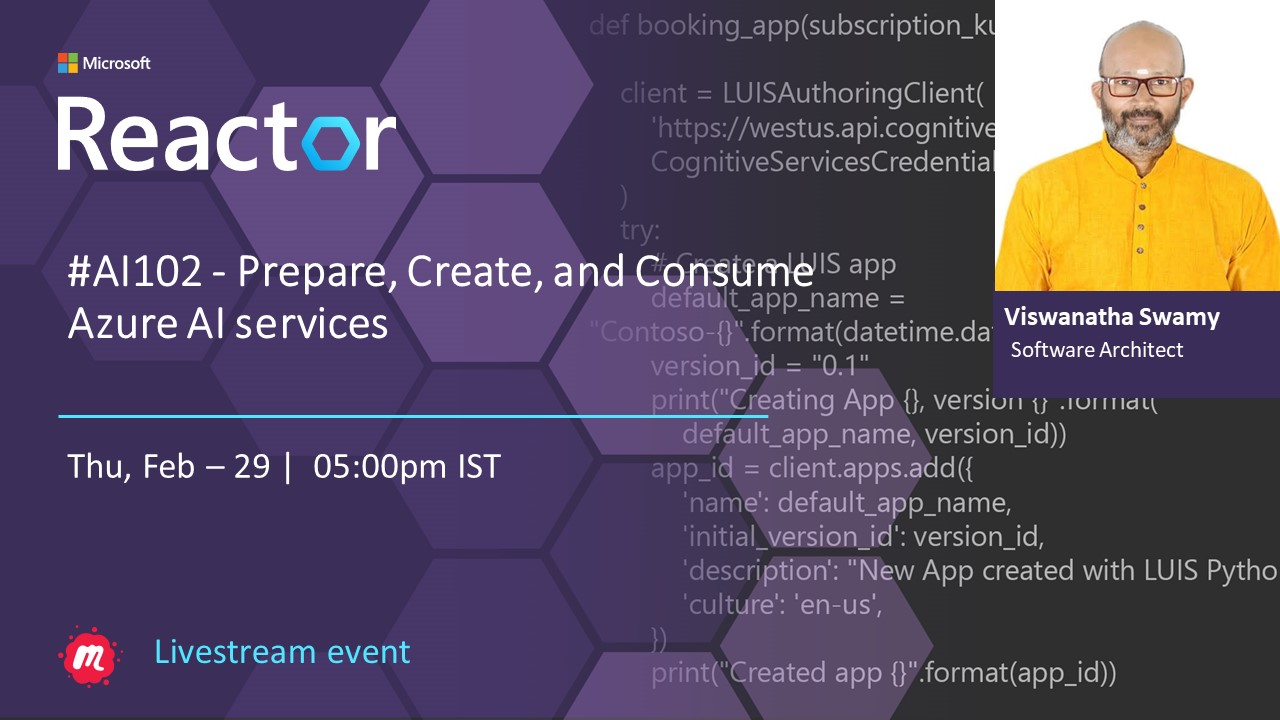
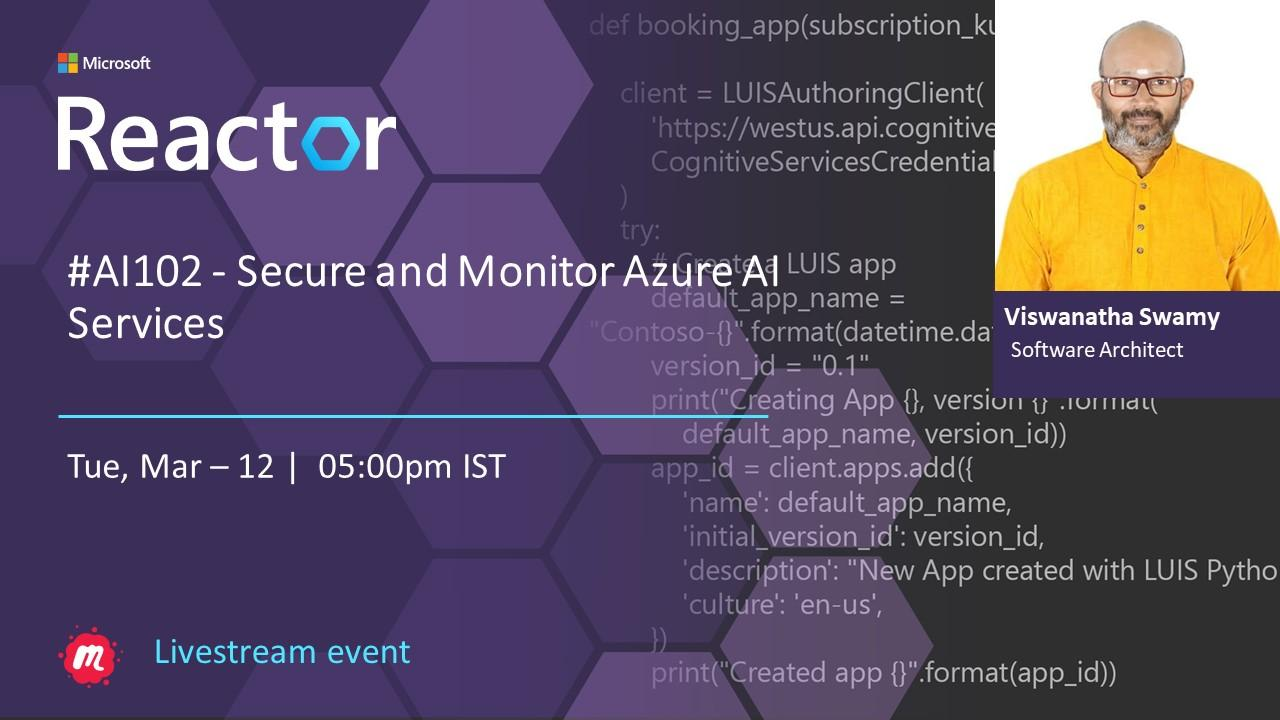
Swamy/11mar work (#29)
* Changes

* Images

* Changes

diff --git a/0312_MSFT_Reactor_AI102_S2/README.md b/0312_MSFT_Reactor_AI102_S2/README.md
@@ -1,15 +1,15 @@
-# AI 102 - Prepare, Create, and Consume Azure AI services
+# AI 102 - Secure and Monitor Azure AI Services
 
-## Date Time: 29-Feb-2024 at 05:00 PM IST
+## Date Time: 12-Mar-2024 at 05:00 PM IST
 
-## Event URL: [https://www.meetup.com/microsoft-reactor-bengaluru/events/299051375](https://www.meetup.com/microsoft-reactor-bengaluru/events/299051375)
+## Event URL: [https://www.meetup.com/microsoft-reactor-bengaluru/events/299209829](https://www.meetup.com/microsoft-reactor-bengaluru/events/299209829)
 
 ## YouTube URL: [https://www.youtube.com/watch?v=ToBeDone](https://www.youtube.com/watch?v=ToBeDone)
 
 ## MS Learn Module(s)
 
-> 1. <https://learn.microsoft.com/en-us/training/modules/prepare-to-develop-ai-solutions-azure/>
-> 1. <https://learn.microsoft.com/en-us/training/modules/create-manage-ai-services/>
+> 1. <https://aka.ms/MonitorAzureAIservices>
+> 1. <https://aka.ms/SecureAzureAIservices>
 
 ![Viswanatha Swamy P K |150x150](./Documentation/Images/ViswanathaSwamyPK.PNG)
 
@@ -42,18 +42,16 @@
 >    - Pre-requisites
 >    - Previous Session
 >    - Current Architecture
-> 1. Python Flask API interacting with Azure Open AI
-> 1. .NET 7 Blazor Server Admin Application interacting with Python Flask API
-> 1. Azure SQL Server, Database, and SQL Scripts
->    - SQL Scripts
->    - Azure SQL Database, and Azure Data Studio
-> 1. Creating .NET 8 Minimal API to store Countries information in Azure SQL Server
-> 1. Integrating Python Flask API, .NET 7 Blazor Server Admin Application, and .NET 8 Minimal API
-> 1. Creating React 18 Client Application to view information.
-> 1. Integrating Python Flask API, Blazor Server Admin Application, .NET 8 Minimal API, and React 18 Client Application.
+> 1. Study guide for Exam AI-102
+> 1. What is Intelligence?
+> 1. Few Terms AI, ML, Auto ML, DL, NLP, GAI
+> 1. ELIZA - The early Natural Language Processing (NLP) Chatbot
+> 1. Azure Open AI, Transformer and GPT
+> 1. Prepare to develop AI solutions on Azure
+> 1. Create and consume Azure AI services
 > 1. SUMMARY / RECAP / Q&A
 
-### Please refer to the [**Source Code**](https://github.com/orgs/ViswanathaSwamy-PK-TechSkillz-Academy/repositories?q=travels) of today's session for more details
+### Please refer to the [**Source Code**](https://github.com/vishipayyallore/aiml-2024/tree/main/ai102demos/TextAnalyticsDemos) of today's session for more details
 
 ---
 
@@ -65,82 +63,52 @@
 
 ### Pre-requisites
 
-> 1. Azure Open AI, SQL
-> 1. Python, and .NET 7/8
+> 1. Azure Open AI, AI/ML
+> 1. Python, C#, and .NET 8
 
 ### Previous Session
 
-> 1. <https://www.youtube.com/watch?v=9L_ebd9P-xM>
+> 1. <https://www.youtube.com/watch?v=03dh8I5FZpo>
 
 ### Current Architecture
 
-![Current Architecture | 100x100](./Documentation/Images/SessionFirstLook.PNG)
+> 1. NA
 
-## 2. Python Flask API interacting with Azure Open AI
-
-> 1. Discussion and Demo. This is created in previous session
-> 1. New Changes
-> 1. <https://learn.microsoft.com/en-gb/azure/ai-services/openai/quickstart?tabs=command-line%2Cpython-new&pivots=programming-language-python>
-
-![Python Flask API | 100x100](./Documentation/Images/PythonFlaskAPI.PNG)
-
-## 3. .NET 7 Blazor Server Admin Application interacting with Python Flask API
-
-> 1. Discussion and Demo. This is created in previous session
-
-![Blazor Admin Application | 100x100](./Documentation/Images/Blazor_AdminApp.PNG)
-
-## 4. Azure SQL Server, Database, and SQL Scripts
+## 2. Prepare to develop AI solutions on Azure
 
 > 1. Discussion and Demo
+> 1. <https://learn.microsoft.com/en-us/training/modules/prepare-to-develop-ai-solutions-azure/>
 
-### SQL Scripts
+## 3. Create and consume Azure AI services
 
-```sql
-CREATE TABLE CountriesInfo (
-    [CountryId] INT IDENTITY (1, 1) NOT NULL PRIMARY KEY,
-    CountryName NVARCHAR(100),
-    CapitalState NVARCHAR(100),
-    NationalBird NVARCHAR(100),
-    CountryPopulation BIGINT
-);
+> 1. Discussion and Demo
+> 1. <https://learn.microsoft.com/en-us/training/modules/create-manage-ai-services/>
+> 1. <https://microsoftlearning.github.io/mslearn-ai-services/Instructions/Exercises/01-use-azure-ai-services.html>
+
+![Text Analysis | 100x100](./Documentation/Images/AAIServices_TextAnalysis.PNG)
+
+### Virtual Environment Creation
+
+```powershell
+pip install virtualenv
+python -m venv .venv
+.venv/Scripts/activate
+pip freeze
+deactivate
 ```
 
-### Azure SQL Database, and Azure Data Studio
+```powershell
+pip install python-dotenv
+pip install azure-ai-textanalytics==5.3.0
+```
 
-> 1. Discussion and Demo
+![Text Analysis | 100x100](./Documentation/Images/AAIServices_TextAnalysis_1.PNG)
 
-![Azure SQL Database | 100x100](./Documentation/Images/AzureSQL_1.PNG)
-
-![Azure Data Studio | 100x100](./Documentation/Images/AzureSQL_2.PNG)
-
-## 5. Creating .NET 8 Minimal API to store Countries information in Azure SQL Server
-
-> 1. Discussion and Demo
-
-![.NET 8 Minimal API | 100x100](./Documentation/Images/DotNetMinimalAPI_1.PNG)
-
-## 6. Integrating Python Flask API, .NET 7 Blazor Server Admin Application, and .NET 8 Minimal API
-
-> 1. Discussion and Demo
-
-![.NET 8 Minimal API | 100x100](./Documentation/Images/DotNetMinimalAPI_2.PNG)
-
-## 7. Creating React 18 Client Application to view information
-
-> 1. Discussion and Demo
-
-![NextJS ReactJS | 100x100](./Documentation/Images/NextJS_ReactJS_App.PNG)
-
-## 8. Integrating Python Flask API, .NET 7 Blazor Server Admin Application, .NET 8 Minimal API, and React 18 Client Application
-
-> 1. Discussion and Demo
-
-![NextJS ReactJS | 100x100](./Documentation/Images/NextJS_ReactJS_App_1.PNG)
+![Text Analysis | 100x100](./Documentation/Images/AAIServices_TextAnalysis_2.PNG)
 
 ---
 
-## 9. SUMMARY / RECAP / Q&A
+## X. SUMMARY / RECAP / Q&A
 
 > 1. SUMMARY / RECAP / Q&A
 > 2. Any open queries, I will get back through meetup chat/twitter.
